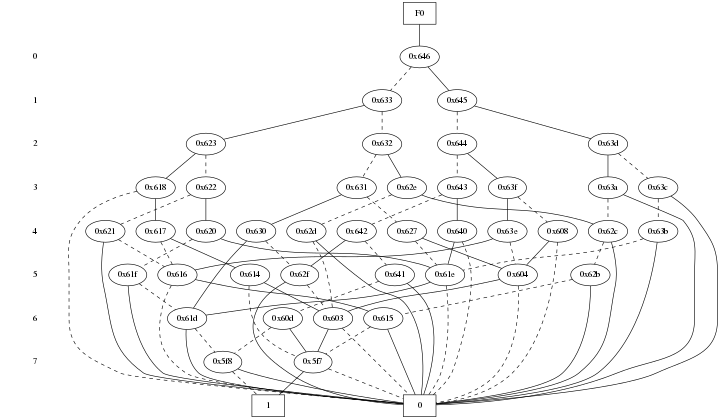
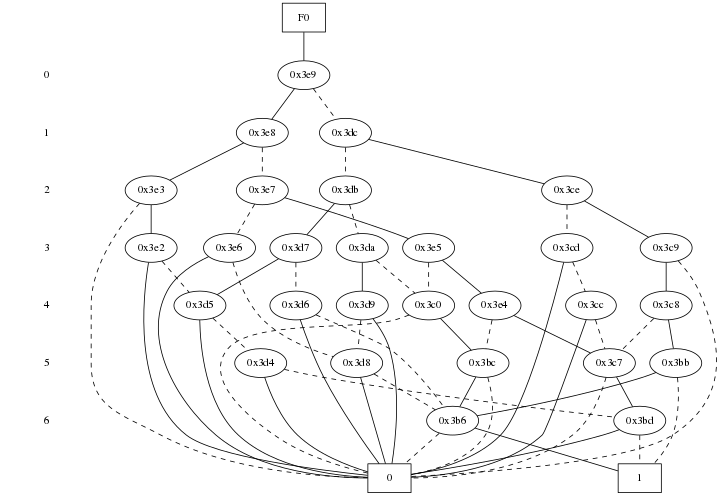
Ajeitando restrict

diff --git a/transitions04.cpp b/transitions04.cpp
@@ -246,9 +246,8 @@ int main(){
  
     char filename[100];
     gbm = Cudd_Init(0,0,CUDD_UNIQUE_SLOTS,CUDD_CACHE_SLOTS,0);
-    DdNode *Xdd,*Tdd, *print;
+    DdNode *Xdd,*Tdd, *print, *restrictBy, *restrictNot, *restrictF, *XTdd, *preFraca, *Xddl;
     int i = 0;
-
  
  /* ********** Creating Propositions ********* */
     names = createPropositions();
@@ -281,10 +280,76 @@ int main(){
         Cudd_Ref(Tdd);       
     }
    
-  /* **************** Saving Bdd *************** */
+
+/* ********************** Seting Pairs ****************** */
+    // for(i = 0; i < (int)prop.size(); i++){
+    //     if(!Cudd_bddSetPairIndex(gbm, i, i+1)){
+    //         printf("Pair didn't set \n");
+    //     }
+    // }
+
+/* ************************ Creating X'dd *************** */
+    Xddl = Cudd_bddPermute(gbm, Xdd, permutation); 
+       if(Xddl == NULL){
+            printf("Permute failed\n");
+       }
+
+/* ******************* Applying EX ********************** */
+    // aux = trans[0];
+    // for (i = 0; i < 23; i++) {           //Fazendo o Ou entre todas as transições
+    //     Tdd = Cudd_bddOr(gbm,trans[i+1],aux);
+    //     Cudd_Ref(Tdd);
+    //     Cudd_RecursiveDeref(gbm,aux);
+    //     aux = Tdd;
+    // }
+    // Cudd_RecursiveDeref(gbm,aux);
+    // DdNode *teste =  aux->second;
+    XTdd = Cudd_bddAnd(gbm, Xddl, Tdd);
     i = 0;
-    char *nome[prop.size()];
-    print = Cudd_BddToAdd(gbm,Tdd);
+    map<string, DdNode*>::iterator aux = prop.begin();
+    aux++;
+    restrictBy = aux->second;   //Fazemos isso para pegar o primeiro linha
+    restrictNot = Cudd_Not(aux->second);
+    restrictF = Cudd_bddOr(gbm, restrictBy, restrictNot);
+    preFraca = XTdd;
+    print = Cudd_BddToAdd(gbm,preFraca);
+    print_dd(gbm, print, 8,4);
+    for(map<string, DdNode*>::iterator it = prop.begin(); it != prop.end(); it++){ //Fazendo a AND entre todos os linha
+        if((i%2)){  //Se i for uma posição ímpar, que é onde estão os linha
+            // restrictBy = it->second;
+            // preFraca = Cudd_bddRestrict(gbm, preFraca, restrictBy);
+            // print = Cudd_BddToAdd(gbm,preFraca);
+            // print_dd(gbm, print, 8,4);
+            // cout << "\n" << endl;
+          // restrictBy = Cudd_bddAnd(gbm, restrictBy, it->second); 
+          // Cudd_Ref(restrictBy);
+            preFraca = Cudd_bddOr(gbm, Cudd_bddRestrict(gbm, preFraca, it->second), Cudd_bddRestrict(gbm, preFraca, Cudd_Not(it->second)));
+            print = Cudd_BddToAdd(gbm,preFraca);
+            print_dd(gbm, print, 8,4);
+            cout << "\n" << endl;
+        }
+        i++;
+    }
+        
+    // XTdd = or(restrict(XTdd, it->second), restrict(XTdd, not(it->second)))
+    // // DdNode *teste =  aux->second;
+    //  XTdd = Cudd_bddAnd(gbm, Xddl, Tdd);
+    //  preFraca = Cudd_bddRestrict(gbm, XTdd, restrictF);
+
+     // DdNode *teste =  aux->second;
+    // XTdd = Cudd_bddAnd(gbm, Xddl, Tdd);
+    // preFraca = Cudd_bddRestrict(gbm, XTdd, teste);
+    // aux++;
+    // teste = aux->second;
+    // DdNode *preFraca2 = Cudd_bddRestrict(gbm, XTdd, teste);
+
+  /* **************** Saving Bdd *************** */
+    // i = 0;
+    // char *nome[prop.size()];
+    // for(i = 0; i < prop.size(); i++){
+    //     strcpy(nome[i],);
+    // }
+    print = Cudd_BddToAdd(gbm,preFraca);
 
     print_dd(gbm, print, 8,4);
     sprintf(filename, "bdd/graph.dot");
@@ -293,3 +358,11 @@ int main(){
  
      return 0;
 }
+
+
+
+
+
+
+
+
